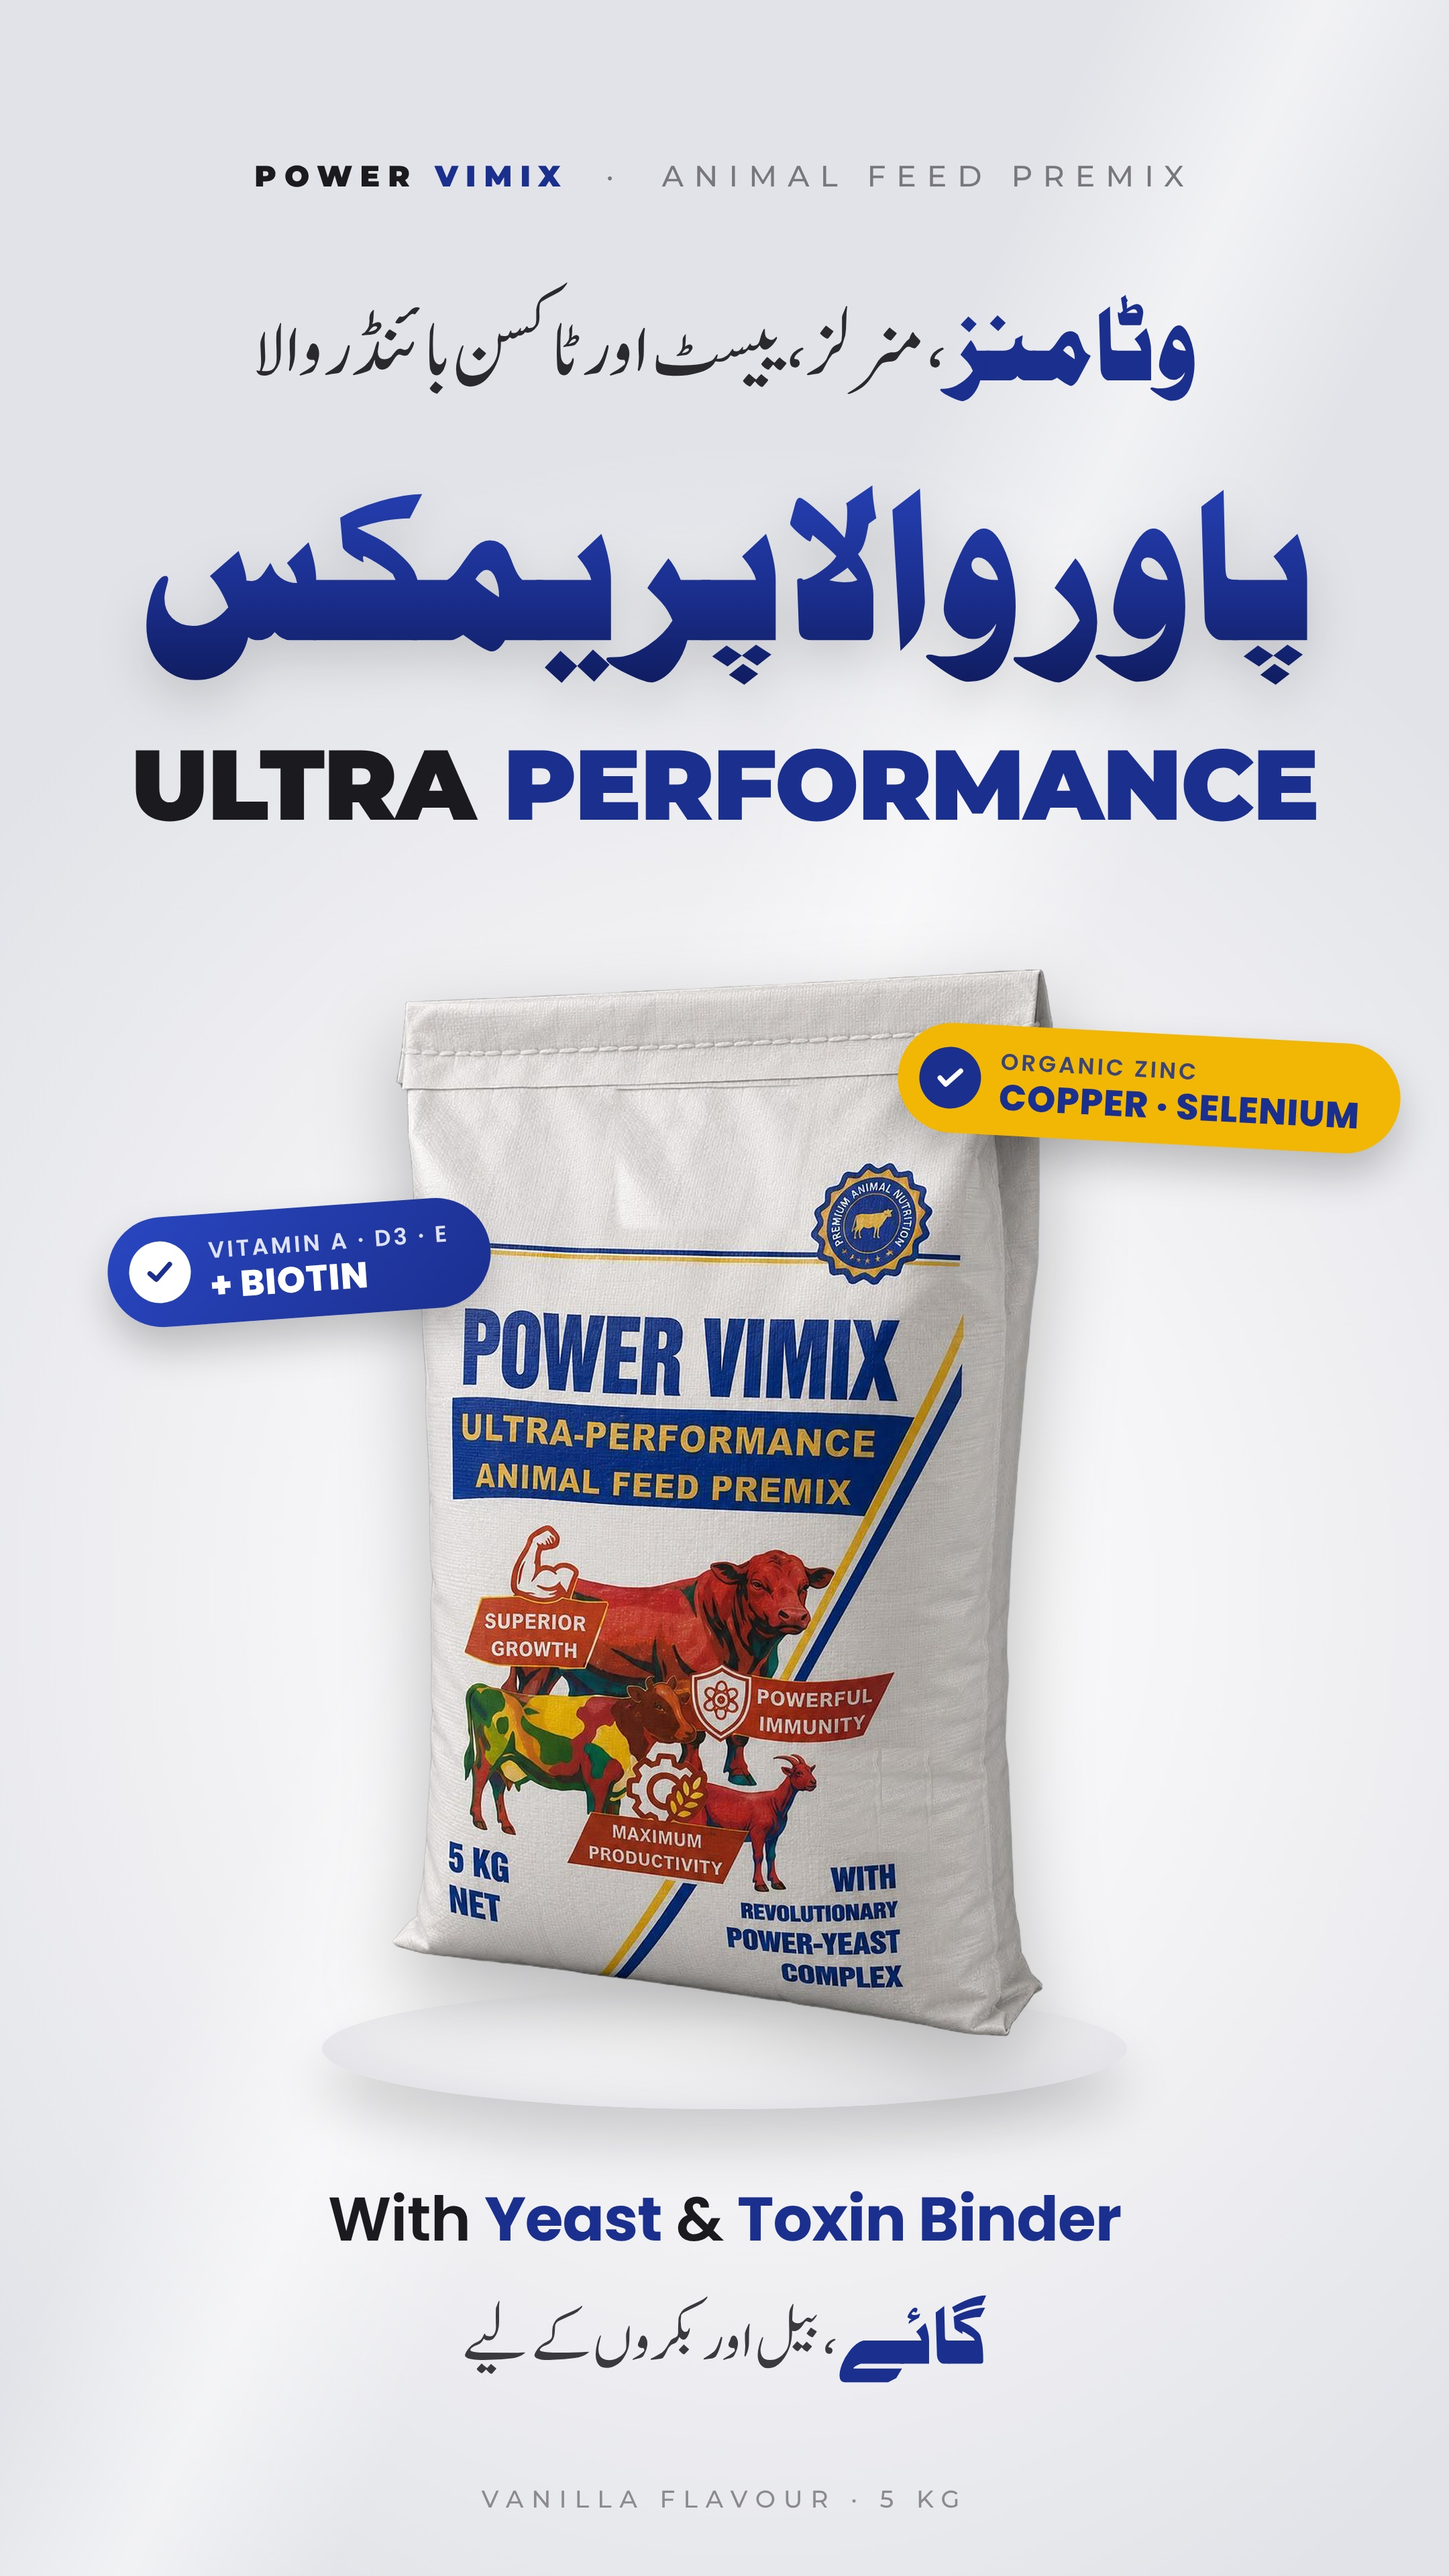
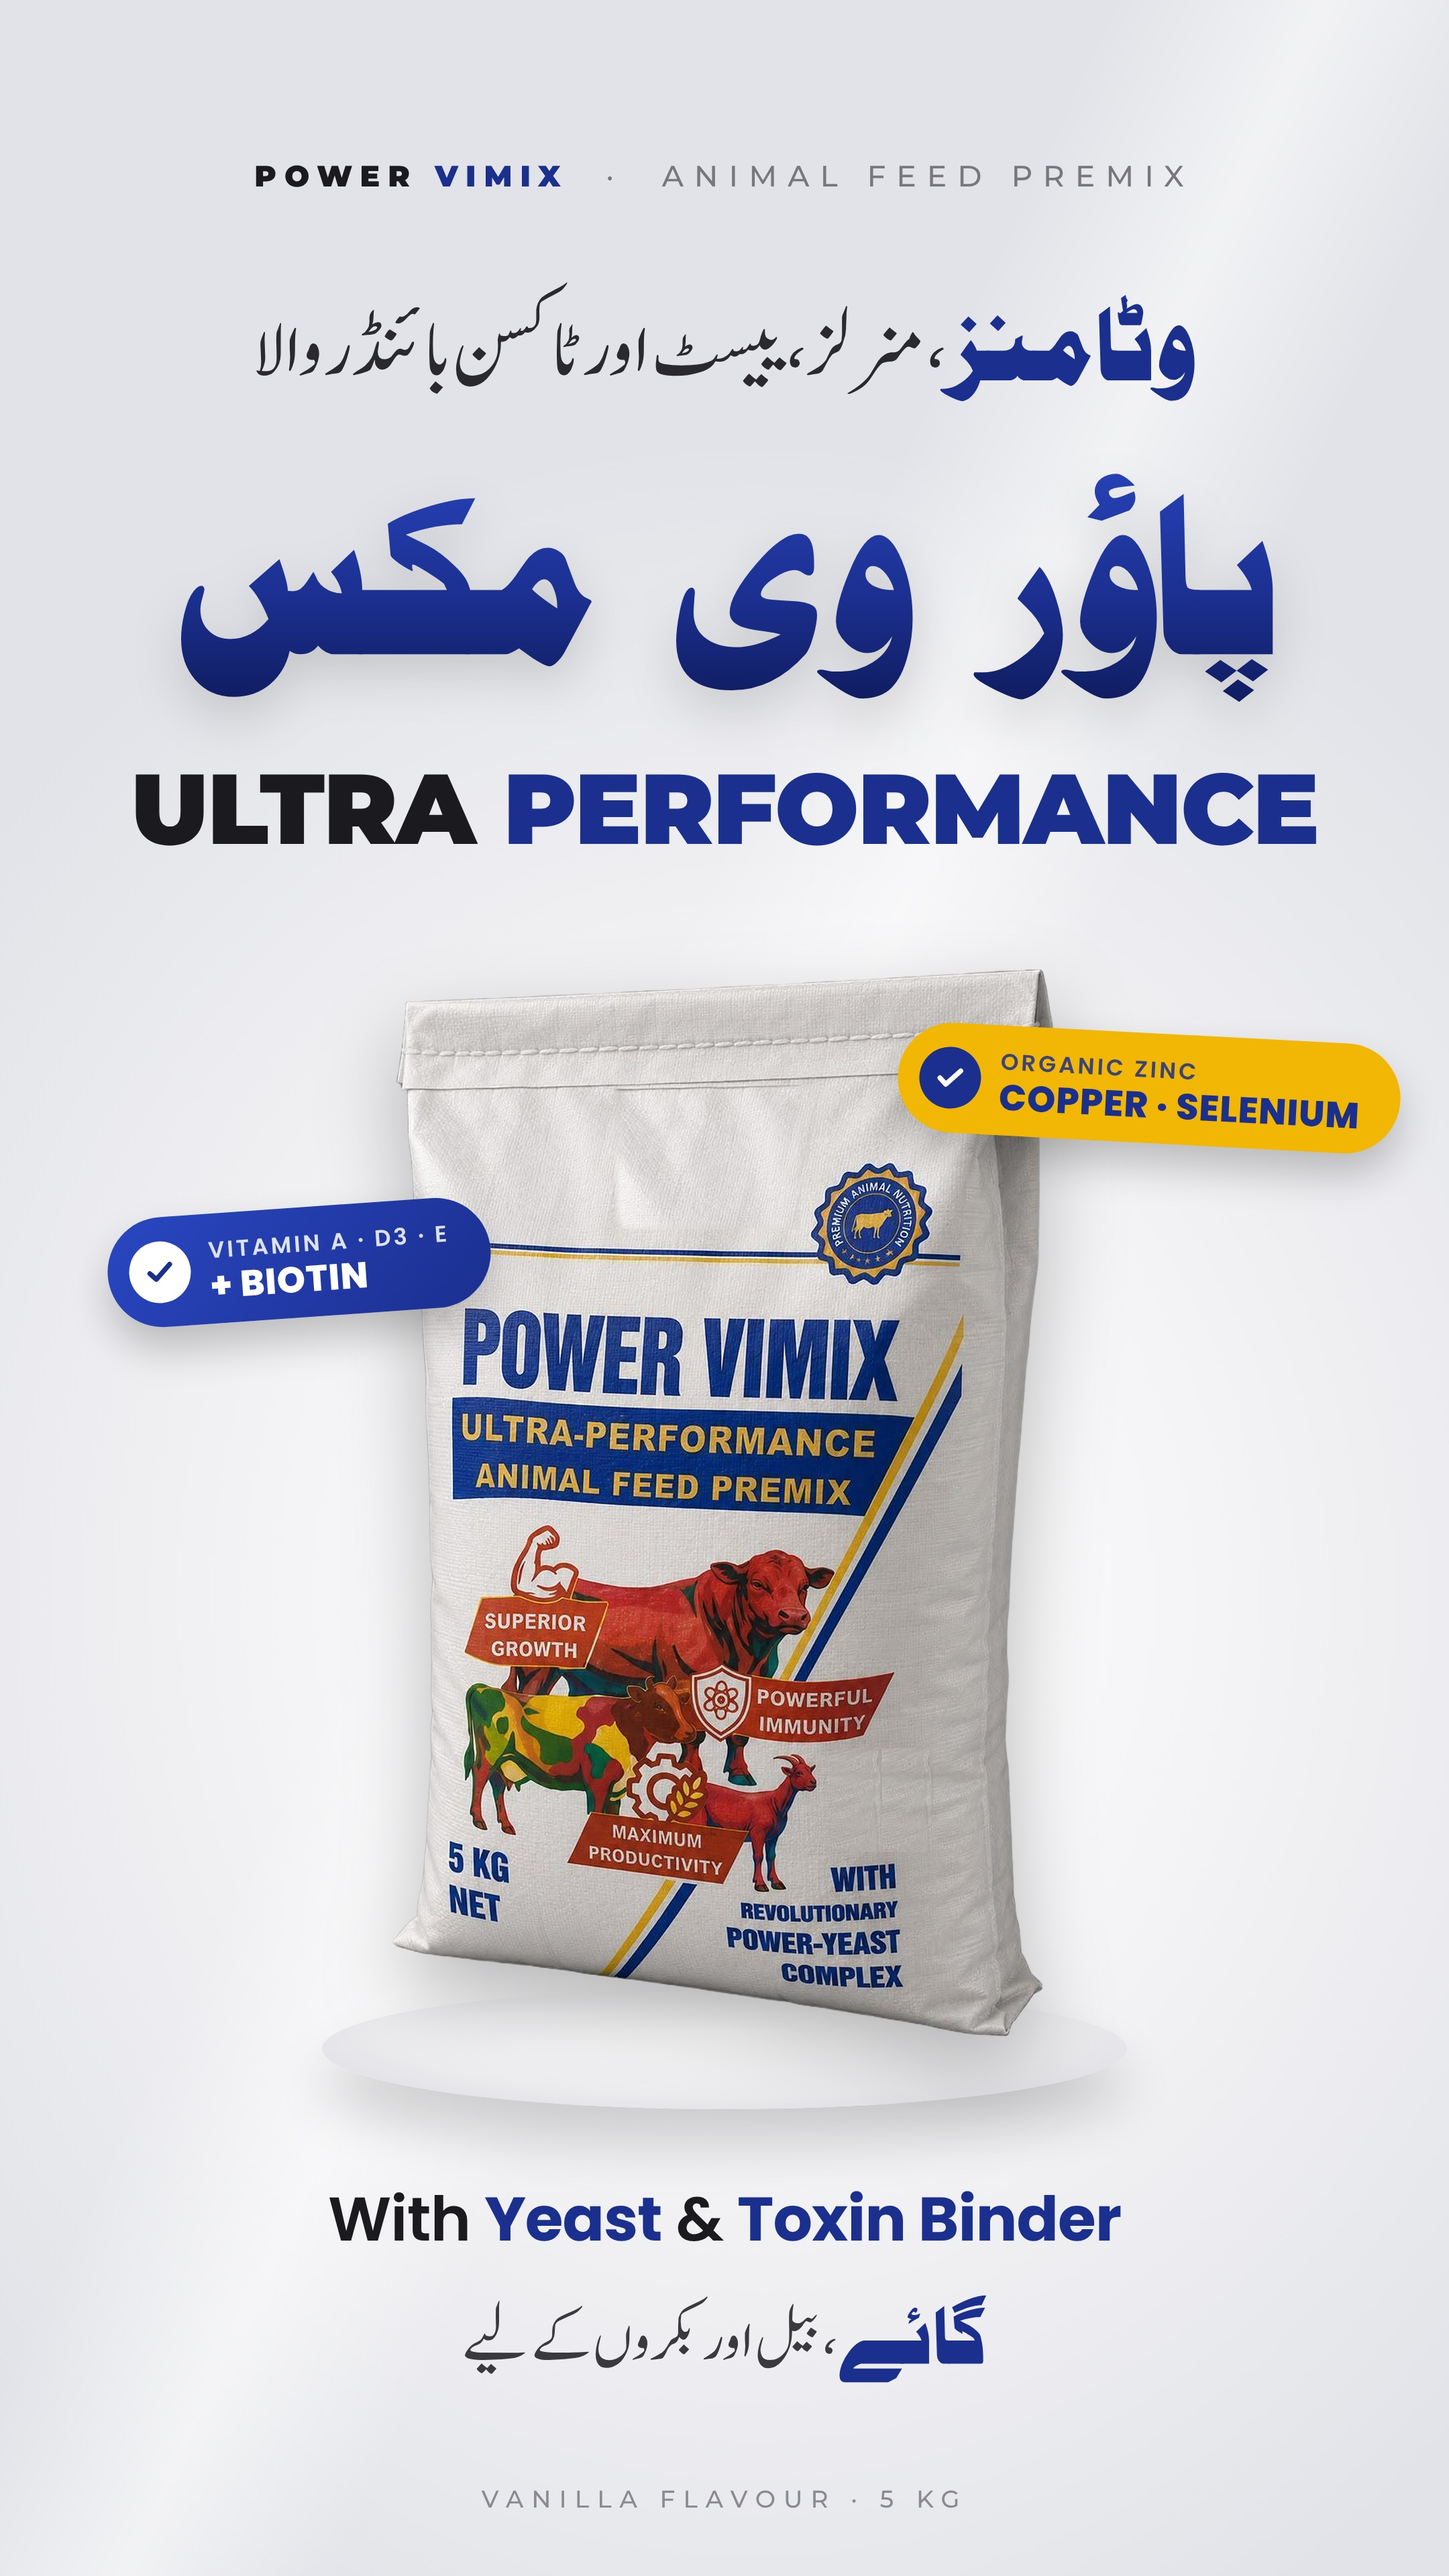
Power V-Mix post: hero = پاؤر وی مکس (hamza, spaced words)
Claude-Session: https://claude.ai/code/session_0139To4Bi5mkGo2BmfVPNRP3

Changed region(s): [[0.0931, 0.1875, 0.8995, 0.3438]]

diff --git a/tools/posts/product_post.py b/tools/posts/product_post.py
@@ -27,7 +27,7 @@ css=f"""
 .hero{{position:absolute;top:322px;left:0;right:0;text-align:center;direction:rtl;font:{c.get('hero_size',150)}px/1.3 Aslam;
  background:linear-gradient(180deg,{P2} 0%,{P} 60%,{PD} 100%);-webkit-background-clip:text;color:transparent;
  filter:drop-shadow(0 14px 18px rgba(0,0,0,.14))}}
-.tonic{{position:absolute;top:548px;left:0;right:0;text-align:center}}
+.tonic{{position:absolute;top:{c.get("en_top",548)}px;left:0;right:0;text-align:center}}
 .tonic b{{display:inline-block;font:900 {c.get('en_size',92)}px/1 Montserrat;letter-spacing:-1px;color:{INK}}}
 .tonic b i{{font-style:normal;color:{P}}}
 .disc{{position:absolute;left:50%;top:1482px;width:600px;height:90px;transform:translateX(-50%);border-radius:50%;
